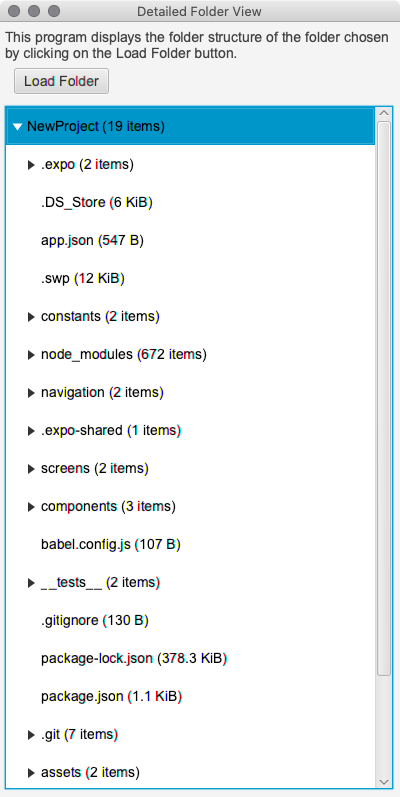
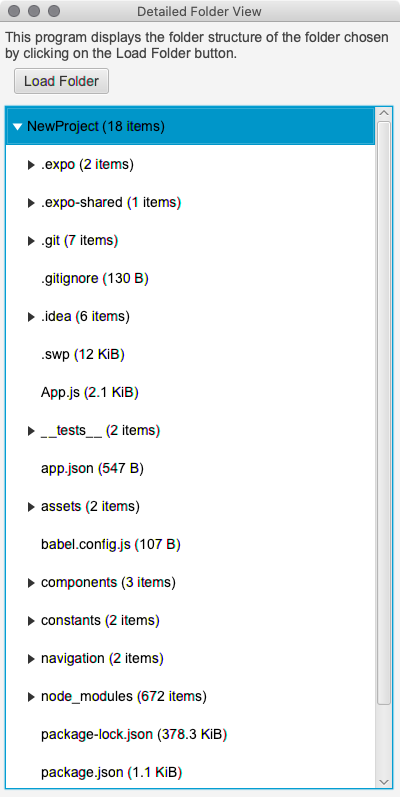
Directory tree nodes are now sorted.

diff --git a/src/gce/module01/Controller.java b/src/gce/module01/Controller.java
@@ -10,6 +10,7 @@ import javafx.stage.DirectoryChooser;
 import java.io.File;
 import java.net.URL;
 import java.text.DecimalFormat;
+import java.util.Comparator;
 import java.util.Objects;
 import java.util.ResourceBundle;
 
@@ -67,6 +68,7 @@ public class Controller implements Initializable {
         for (File f : listFiles) {
             if (f.isDirectory()) {
                 root.getChildren().add(getNodesForDirectory(f));
+                root.getChildren().sort(Comparator.comparing(TreeItem::getValue));
             } else {
                 // Add the node with the corresponding file size
                 String fileInfo = f.getName() + " (" + prettyFileSize(f.length()) + ")";

diff --git a/README.md b/README.md
@@ -24,10 +24,7 @@ Clone the repo and import it into your favorite Java IDE. Make sure that:
  2. JavaFX 8 is installed in your system.
 
 ## Known Issues
-The resulting directory tree is not sorted.
-
-## Todo
-Figure out how to sort the directory tree.
+None at this time.
 
 ## Screenshots
 ### Initial prompt
